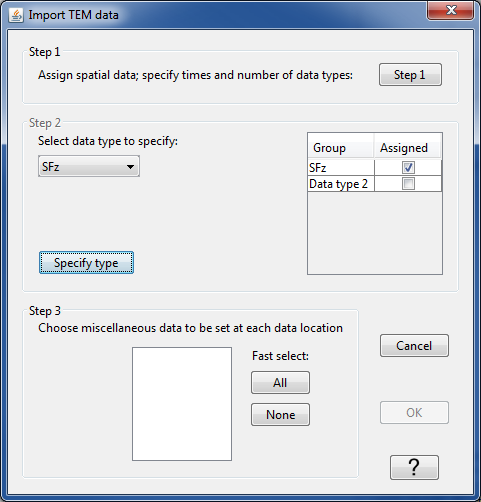
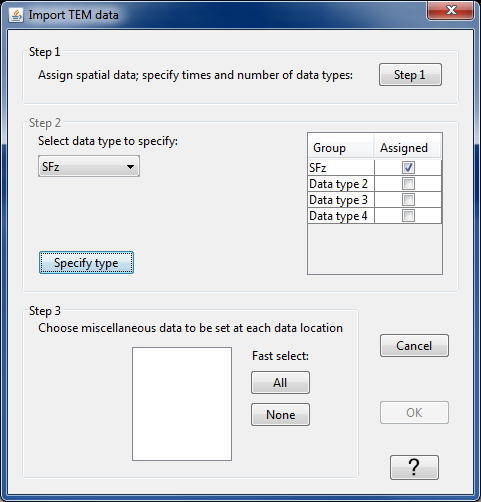
Finished loading tem data from csv recipe

diff --git a/content/recipes/importVTEMdata.rst b/content/recipes/importVTEMdata.rst
@@ -7,6 +7,8 @@ Import TEM data into GIFtools from Geosoft XYZ or CSV file
 
 GIFtools can import time-domain EM data from a Geosoft xyz or csv file in a few simple steps. This recipe uses a VTEM data set from a csv file. The first line in the file should be the data headers. Double check the file formats before starting: :ref:`csv file <CSVfile>` and :ref:`Geosoft xyz file <XYZfile>`.
 
+.. note:: If you have multiple component data and not all time channels are available for some components, GIFtools can handle that. This recipe uses an example where the x component data has less time channels than the z component.
+
 Start GIFtools or open an already existing project. Because we will be loading in a number of files, it is easiest to set the working directory to the folder where the files are located.
 
 To set the working directory: **Project** |rarr| **Set properties** |rarr| **Set working directory** or use the shortcut command **Control+Shift+D**
@@ -17,7 +19,7 @@ There are several data formats to choose from. In this recipe, we focus on impor
 
 The following GUI will pop up:
 
-.. figure:: ../../images/importTEMdata/importTEMdata.png
+.. figure:: ../../images/importTEMdata/importTEMdata.PNG
         :figwidth: 75%
         :align: center
 
@@ -26,7 +28,7 @@ Step 1
 
 Click on the "Step 1" button. The following GUI will pop up.
 
-.. figure:: ../../images/importTEMdata/importStep1.png
+.. figure:: ../../images/importTEMdata/importStep1.PNG
         :figwidth: 50%
         :align: center
 
@@ -34,21 +36,19 @@ Choose the appropriate headers from the drop-down menus for Easting, Northing, a
 
 Next, add in the time channel information. This can be done in two ways: (1) Manually add the time channel information by clicking the plus or minus buttons to increase or decrease the number of time channels. Then the time can be entered in the second column. (2) Alternatively, you can load a text file that contains the time channels, as shown below.
 
-.. figure:: ../../images/importTEMdata/channelfile.png
+.. figure:: ../../images/importTEMdata/channelfile.PNG
         :figwidth: 30%
         :align: center
 
 To load in a file with the time channels, click "Load text file" and select the desired file. The GUI will update with the number of times and the time channels. In the case of our example, there are 45 time chanels, ranging from 0.021 to 10.667 ms. 
 
-**Note**: these units will have to be changed before inversion of the data, but this can easily be done using the **Data manipulation** menu once the data is loaded into GIFtools. 
+.. note:: These units will have to be changed before inversion of the data, but this can easily be done using the **Data manipulation** menu once the data is loaded into GIFtools. 
 
-The final step is to select the number of data groups. For this example, there are 2: the vertical components of the time derivative of the magnetic field (dB/dt) and the magnetic field (B), denoted as SFz and BFz, respectively, in the headers of the csv file. Click the plus or minus buttons to increase or decrease the desired number of data groups.
-
-**Note**: The data groups have to have to same number of time channels and the same time gates.
+The final step is to select the number of data groups. For this example, there are 4: the horizontal and vertical components of the time derivative of the magnetic field (dB/dt) and the magnetic field (B), In our example, these are denoted as SFx, SFz, BFx, and BFz in the headers of the csv file. Click the plus or minus buttons to increase or decrease the desired number of data groups.
 
 Once this information is entered, our GUI looks like:
 
-.. figure:: ../../images/importTEMdata/loadStep1_2.png
+.. figure:: ../../images/importTEMdata/loadStep1_2.PNG
         :align: center
         :figwidth: 50%
 
@@ -57,33 +57,44 @@ Click OK and move on to Step 2.
 Step 2
 ------
 
-With Step 1 complete, the GUI shows the number of data types selected. For our example, that's 2 data groups. Select the first data type to specify from the drop down menu. It will be called "Data type 1". Click the "Specify type" button and the following window will appear:
+With Step 1 complete, the GUI shows the number of data types selected. For our example, that's 4 data groups. Select the first data type to specify from the drop down menu. It will be called "Data type 1". Click the "Specify type" button and the following window will appear:
 
-.. figure:: ../../images/importTEMdata/loadStep2.png
+.. figure:: ../../images/importTEMdata/loadStep2.PNG
         :align: center
         :figwidth: 50%
 
 Here, you can change the header name for this data group from "Data type 1" to your desired name. For our example, we've chosen "SFz". There are 2 ways to assign the header for each time channel:
 
-1. Click on the empty cell below "Header" and a drop-down menu will appear. Select the desired header name. Repeat for each time channel. For our example, the first header is "SFz[4]", as shown below:
+1. Click on the empty cell below "Header" and a drop-down menu will appear. Select the desired header name. Repeat for each time channel. If there is no header associated for a particular time channel (i.e., there is no data associated with that time channel), leave the header field blank. For our example, the first header is "SFz[4]", as shown below:
 
-.. figure:: ../../images/importTEMdata/loadStep2_1.png
+.. figure:: ../../images/importTEMdata/loadStep2_1.PNG
         :align: center
         :figwidth: 50%
 
-2. The faster method is click the "Load headers" button and select a file containing all the headers. The file format for the headers is shown below for our example's two data groups. The headers in these files are SFz[4]-SFz[48] and BFz[4]-BFz[48]. This automatically fills in the header column, as shown in the second figure below.
+2. The faster method is click the "Load headers" button and select a file containing all the headers. The file format for the headers is shown below for two of the four data groups in our example. The headers in these files are SFz[4]-SFz[48] and BFz[4]-BFz[48]. This automatically fills in the header column, as shown in the second figure below.
 
-.. figure:: ../../images/importTEMdata/loadStep2_2.png
+.. figure:: ../../images/importTEMdata/loadStep2_2.PNG
         :align: center
         :figwidth: 50%
 
-.. figure:: ../../images/importTEMdata/loadStep2_3.png
+.. figure:: ../../images/importTEMdata/loadStep2_3.PNG
+        :align: center
+        :figwidth: 50%
+
+
+In the case where there are more time channels than headers, leave a blank line in the header file, as shown below. This will then not associate a header with that time channel and assign a dummy value as the data value when finished loading into GIFtools. In our example, there is only x component data for time channels 20-48, so the header file contains the headers SFx[20]-SFx[48] with blank lines above the first header.
+
+.. figure:: ../../images/importTEMdata/loadStep2_2b.PNG
+        :align: center
+        :figwidth: 50%
+
+.. figure:: ../../images/importTEMdata/loadStep2_3b.PNG
         :align: center
         :figwidth: 50%
 
 Once the headers have been added for this data group, click OK. You should now see that the first data group's name has been updated (if you changed it) and it has been assigned.
 
-.. figure:: ../../images/importTEMdata/loadStep2_4.png
+.. figure:: ../../images/importTEMdata/loadStep2_4.PNG
         :align: center
         :figwidth: 50%
 
@@ -93,27 +104,29 @@ Step 3
 ------
 When all data types are assigned in Step 2, any remaining data columns detected in the file will appear as miscellaneous data in Step 3. The figure below shows what this looks like for our example. Here, you can select additional data to import. In our case, we've selected 4 additional columns of data, as shown below.
 
-.. figure:: ../../images/importTEMdata/loadStep3.png
+.. figure:: ../../images/importTEMdata/loadStep3.PNG
         :align: center
         :figwidth: 50%
 
-**Note**: If the data columns contain anything other than numbers, importation may not succeed. For this reason, we are not importing the column "Line" above because the data in the csv file are of the format "L000".
+.. NOTE:: If the data columns contain anything other than numbers, importation may not succeed. For this reason, we are not importing the column "Line" above because the data in the csv file are of the format "L000".
 
 Load the data
 -------------
 
-When everything is selected as desired, click OK to load in the time-domain EM data into GIFtools. Depending on the size of the file, this may take some time!
+When everything is selected as desired, click OK to load in the time-domain EM data into GIFtools. 
+
+.. tip:: Depending on the size of the file, loading the data may take some time!
 
 After the data has been loaded, the TEMdata object will appear in the GIFtools GUI, as shown below.
 
-.. figure:: ../../images/importTEMdata/importTEMdata4.png
+.. figure:: ../../images/importTEMdata/importTEMdata4.PNG
         :align: center
         :figwidth: 75%
 
 Additional notes and tips
 -------------------------
 
-**Tip**: The TEM data is now loaded into GIFtools but the transmitter information has not been added. See the recipe for :ref:`adding transmitters to TEM data <addTxToTEMdata>`
+.. tip:: The TEM data is now loaded into GIFtools but the transmitter information has not been added. See the recipe for :ref:`adding transmitters to TEM data <addTxToTEMdata>`.
 
-**Tip**: if any figures are too small to read, right-click and open the image in a new tab!
+.. tip:: If any figures are too small to read, right-click and open the image in a new tab!
 
